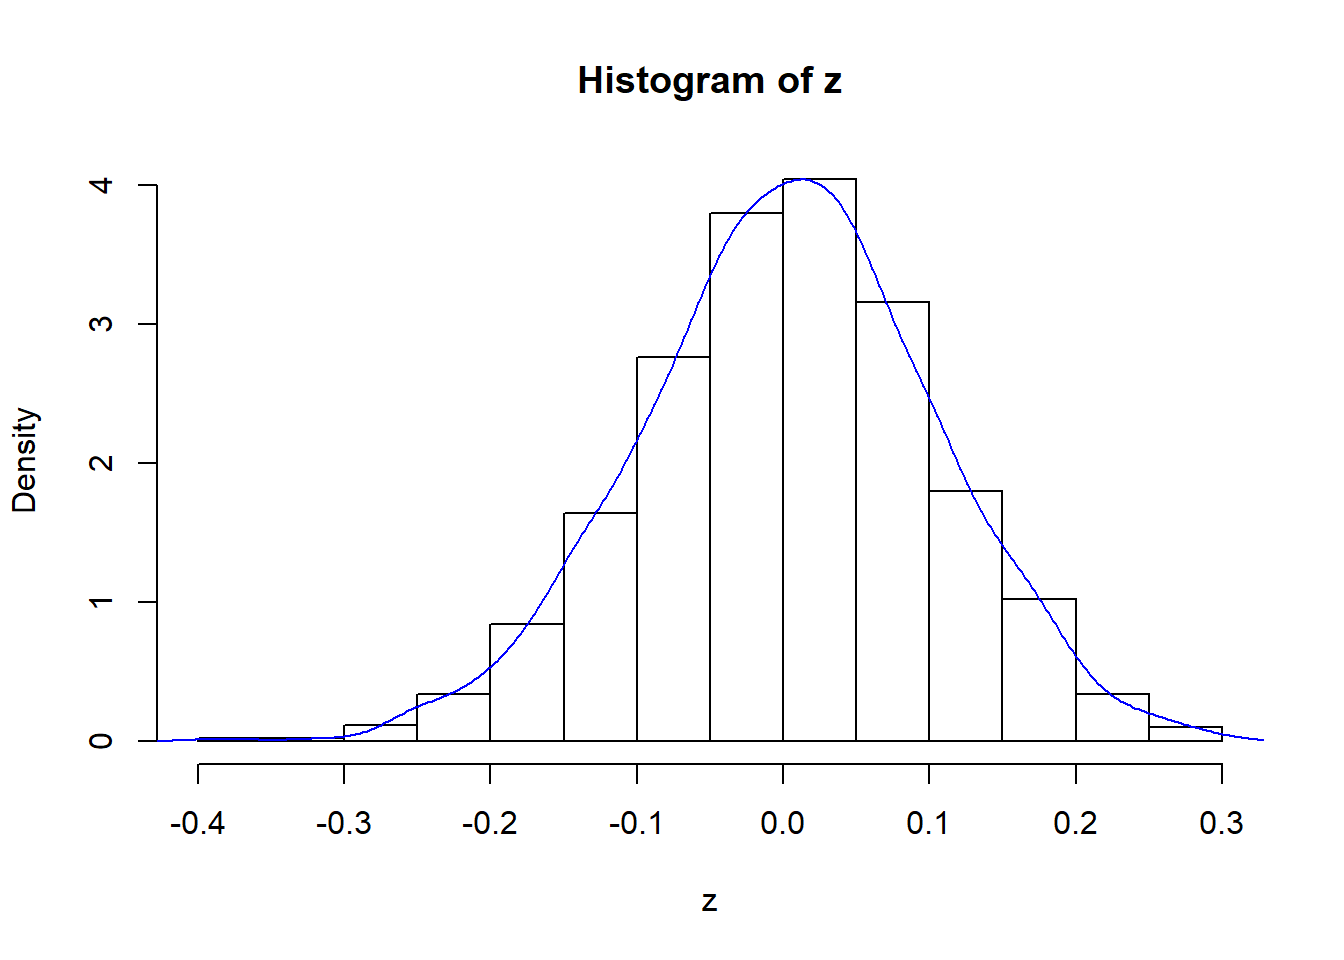
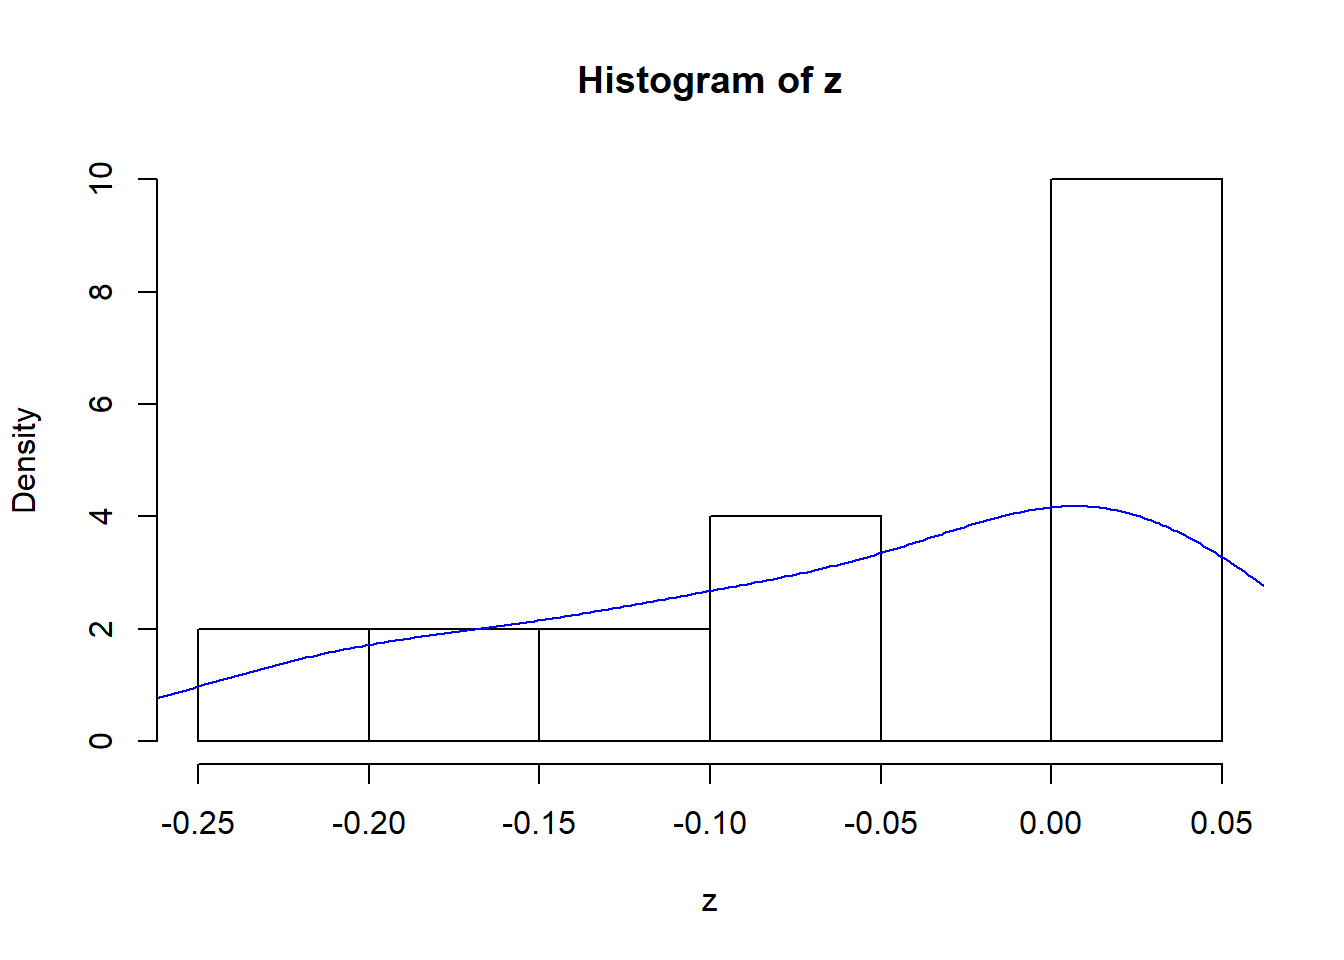
hist10

diff --git a/docs/Journal.html b/docs/Journal.html
@@ -488,7 +488,7 @@ print(a)</code></pre>
 </div>
 <div id="problem-5" class="section level1">
 <h1>Problem 5</h1>
-<pre class="r"><code>z&lt;-rnorm(1000,0,0.1)
+<pre class="r"><code>z&lt;-rnorm(10,0,0.1)
 hist(z,probability=TRUE)
 lines(density(z),col=4)</code></pre>
 <p><img src="Journal_files/figure-html/unnamed-chunk-5-1.png" width="672" /></p>
